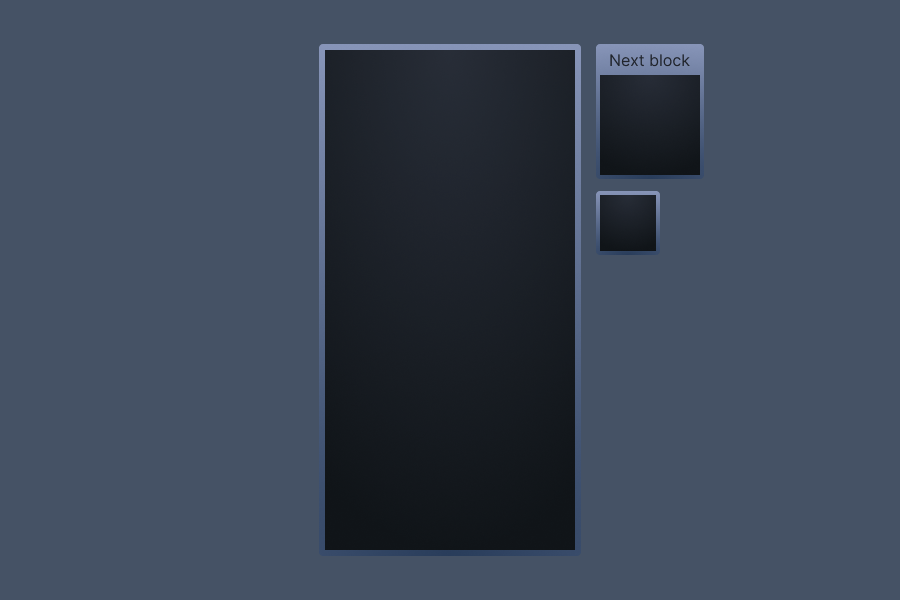
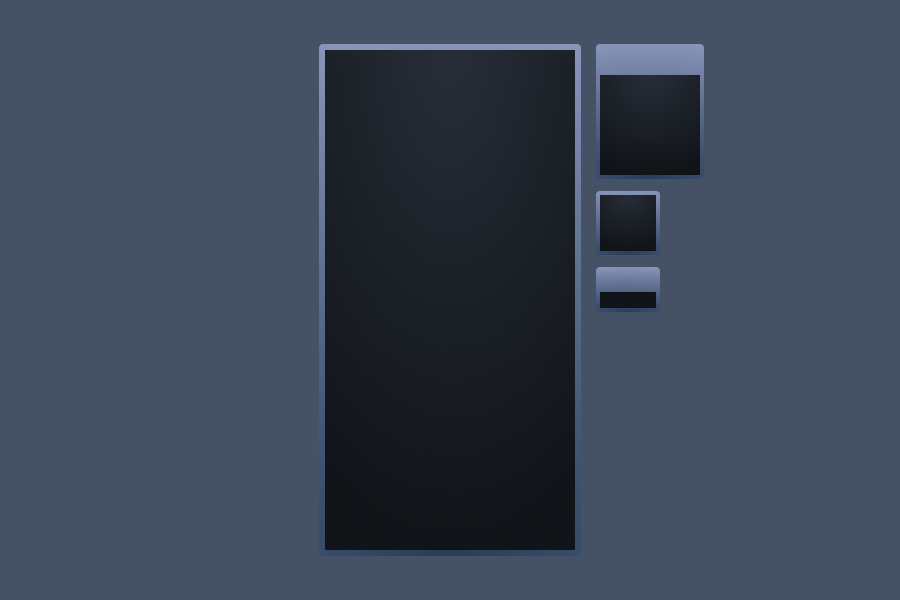
feat: render text instead of text images, add score

Changed region(s): [[0.6533, 0.42, 0.7467, 0.54], [0.6844, 0.09, 0.7778, 0.12]]

diff --git a/src/src/text.c b/src/src/text.c
@@ -1,0 +1,98 @@
+#include "text.h"
+
+#include <context.h>
+
+#include "material.h"
+#include "texture.h"
+#include "rgba.h"
+#include "shaders/textsh.h"
+
+#include <stdbool.h>
+#include <GL/gl3w.h>
+
+typedef struct TextDrawable_s {
+  GLuint VBO;
+  GLuint EBO;
+  GLuint VAO;
+} TextDrawable;
+
+const GLfloat _vertices[] = { 0, 0, 1, 0, 1, 1, 0, 1 };
+const GLuint _indices[] = { 0, 1, 2, 0, 2, 3 };
+
+static Texture _texture;
+static TextDrawable _textDrawable;
+static Material _material;
+static bool _isMeshInitialized = false;
+
+void Text_Init() {
+  if (_isMeshInitialized) return;
+
+  _texture = Texture_Load(FONT);
+  if (!_texture.IsOK) return;
+
+  _material = Material_Create("TextMaterial", textsh_vs, textsh_fs, &_texture.Ptr, 1);
+  if (!_material.IsOK) {
+    glDeleteTextures(1, &_texture.Ptr);
+    return;
+  }
+
+  glGenVertexArrays(1, &_textDrawable.VAO);
+  glBindVertexArray(_textDrawable.VAO);
+
+  glGenBuffers(1, &_textDrawable.VBO);
+  glBindBuffer(GL_ARRAY_BUFFER, _textDrawable.VBO);
+  glBufferData(GL_ARRAY_BUFFER, 4 * (2 * sizeof(GLfloat)), _vertices, GL_STATIC_DRAW);
+  glVertexAttribPointer(0, 2, GL_FLOAT, GL_FALSE, 2 * sizeof(GLfloat), (void*)0);
+  glEnableVertexAttribArray(0);
+
+  glGenBuffers(1, &_textDrawable.EBO);
+  glBindBuffer(GL_ELEMENT_ARRAY_BUFFER, _textDrawable.EBO);
+  glBufferData(GL_ELEMENT_ARRAY_BUFFER, 6 * sizeof(GLuint), _indices, GL_STATIC_DRAW);
+
+  glBindVertexArray(0);
+
+  _isMeshInitialized = true;
+}
+
+void Text_Destroy() {
+  if (!_isMeshInitialized) return;
+  _isMeshInitialized = false;
+
+  glDeleteBuffers(1, &_textDrawable.VBO);
+  _textDrawable.VBO = 0;
+
+  glDeleteBuffers(1, &_textDrawable.EBO);
+  _textDrawable.EBO = 0;
+
+  glDeleteVertexArrays(1, &_textDrawable.VAO);
+  _textDrawable.VAO = 0;
+}
+
+void Text_PutChar(const int x, const int y, const int charWidth, const int charHeight, const uint8_t character, const RGBA* color) {
+  Material_SetActive(&_material);
+  Material_BindTextures(&_material);
+
+  Material_SetVector2(&_material, "uResolution", g_Context.Size.Width, g_Context.Size.Height);
+  Material_SetVector2(&_material, "uBaseResolution", g_Context.BaseSize.Width, g_Context.BaseSize.Height);
+  Material_SetVector2(&_material, "uLocation", (float)x, (float)y);
+  Material_SetVector2(&_material, "uSize", (float)charWidth, (float)charHeight);
+  Material_SetUVector2(&_material, "uLayout", 16, 8);
+  Material_SetUint(&_material, "uIndex", character);
+
+  if (color == NULL) {
+    Material_SetVector4(&_material, "uColor", 1.0f, 1.0f, 1.0f, 1.0f);
+  } else {
+    Material_SetVector4(&_material, "uColor", color->R, color->G, color->B, color->A);
+  }
+
+  glBindVertexArray(_textDrawable.VAO);
+  glDrawElements(GL_TRIANGLES, 6, GL_UNSIGNED_INT, 0);
+}
+
+void Text_PutString(const int x, const int y, const int width, const int height, const char* text, const int textLength, const RGBA* color) {
+  const int charWidth = width / textLength;
+  const int charHeight = height;
+  for (int i = 0; i < textLength; i++) {
+    Text_PutChar(x + i * charWidth, y, charWidth, charHeight, text[i], color);
+  }
+}

diff --git a/src/src/scenes/tetris.c b/src/src/scenes/tetris.c
@@ -4,6 +4,7 @@
 #include <stdbool.h>
 #include <inttypes.h>
 #include <stdlib.h>
+#include <text.h>
 #include <time.h>
 
 #include "timing.h"
@@ -217,6 +218,12 @@ void Scenes_Tetris_OnLoad() {
 
   tetris_state.isInitialized = true;
 
+  Text_Init();
+
+  // Enable transparency
+  glEnable(GL_BLEND);
+  glBlendFunc(GL_SRC_ALPHA, GL_ONE_MINUS_SRC_ALPHA);
+
   printf("Tetris scene loaded!\n");
 }
 
@@ -306,20 +313,26 @@ void Scenes_Tetris_OnTetrisUpdate() {
   if (tetris_state.tetrisEndTime > g_Time) return;
   tetris_state.tetrisEndTime = g_Time + tetris_state.tetrisInterval;
 
+  int tetrisCount = 0;
+  for (int i = 0; i < 4; i++) {
+    if (tetris_state.disappearLinePositions[i] != -1) {
+      tetrisCount++;
+    }
+  }
+
   for (int i = 0; i < 4; i++) {
     int y = tetris_state.disappearLinePositions[i];
     if (y != -1) {
       tetris_state.field.Data[y * tetris_state.field.Size.Width + tetris_state.disappearX] = 0;
-      tetris_state.score++;
+      tetris_state.score += tetrisCount;
     }
   }
 
   tetris_state.disappearX++;
 
-  if (tetris_state.disappearX >= (int)tetris_state.field.Size.Width) {
+  if (tetris_state.disappearX >= tetris_state.field.Size.Width) {
     Field_CollectEmptyLines(&tetris_state.field);
     tetris_state.isTetris = false;
-    printf("Score: %d\n", tetris_state.score);
   }
 }
 
@@ -406,8 +419,41 @@ void Scenes_Tetris_Render() {
     }
   }
 
+  // Pause sprite render
+
   if (tetris_state.isPaused) {
     Sprite_Render(&tetris_data.pauseSprite, false);
+  }
+
+  RGBA mainColor = { 0.0f, 0.0f, 0.0f, 1.0f };
+  RGBA invertMainColor = RGBA_Invert(&mainColor);
+  RGBA secondaryColor = { 0.2f, 0.2f, 0.2f, 0.2f };
+  RGBA invertSecondaryColor = RGBA_Invert(&secondaryColor);
+
+  if (tetris_state.isLost) {
+    mainColor = RGBA_Invert(&mainColor);
+    invertMainColor = RGBA_Invert(&invertMainColor);
+    secondaryColor = RGBA_Invert(&secondaryColor);
+    invertSecondaryColor = RGBA_Invert(&invertSecondaryColor);
+  }
+
+  // Next block text render
+  const char nextBlockText[] = "Next block";
+  Text_PutString(610, 53, 80, 16, nextBlockText, sizeof(nextBlockText) - 1, &mainColor);
+
+  // Score text render
+  const char scoreText[] = "Score";
+  Text_PutString(608, 271, 40, 16, scoreText, sizeof(scoreText) - 1, &mainColor);
+
+  // Score render
+  const int w = 16 / 2;
+  const int h = 16;
+
+  int score = tetris_state.score;
+  for (int i = 5; i >= 0; i--) {
+    const uint8_t num = score % 10;
+    score /= 10;
+    Text_PutChar(604 + i * w, 292, w, h, '0' + num, &invertMainColor);
   }
 }
 
@@ -428,5 +474,8 @@ void Scenes_Tetris_OnUpdate() {
 
 void Scenes_Tetris_OnDestroy() {
   Sprite_DestroySpriteMesh();
+
+  Text_Destroy();
+
   printf("Tetris scene destroyed!\n");
 }

diff --git a/src/src/shaders/textsh.c b/src/src/shaders/textsh.c
@@ -1,0 +1,80 @@
+#include "textsh.h"
+
+const char* textsh_vs = ""
+  "#version 330 core\n"
+  "\n"
+  "precision lowp int;\n"
+  "precision lowp float;\n"
+  "\n"
+  "layout(location = 0) in vec2 iPos;\n"
+  "\n"
+  "out vec2 vTexCoord;\n"
+  "\n"
+  "uniform vec2 uResolution;\n"
+  "uniform vec2 uBaseResolution;\n"
+  "\n"
+  "uniform vec2 uLocation;\n"
+  "uniform vec2 uSize;\n"
+  "uniform uvec2 uLayout;\n"
+  "uniform uint uIndex;\n"
+  "\n"
+  "void main() {\n"
+  "  // Tex coords\n"
+  "  uint cols = uLayout.x;\n"
+  "  uint rows = uLayout.y;\n"
+  "\n"
+  "  float w = 1.0 / float(cols);\n"
+  "  float h = 1.0 / float(rows);\n"
+  "\n"
+  "  float col = float(uIndex % cols);\n"
+  "  float row = float(uIndex / cols);\n"
+  "\n"
+  "  vTexCoord = vec2(\n"
+  "    (col + iPos.x) * w,\n"
+  "    (row + iPos.y) * h\n"
+  "  );\n"
+  "\n"
+  "  // Position btw\n"
+  "  vec2 pos = iPos;\n"
+  "\n"
+  "  float aspect = uBaseResolution.x / uBaseResolution.y;\n"
+  "  vec2 size = vec2(\n"
+  "    uSize.x / uBaseResolution.x * aspect,\n"
+  "    uSize.y / uBaseResolution.y * 1\n"
+  "  );\n"
+  "\n"
+  "  pos *= size;\n"
+  "  pos += vec2(\n"
+  "    uLocation.x / uBaseResolution.x * aspect,\n"
+  "    uLocation.y / uBaseResolution.y\n"
+  "  );\n"
+  "\n"
+  "  pos.y = -pos.y;\n"
+  "\n"
+  "  pos *= 2;\n"
+  "  pos -= vec2(1.0 * aspect, -1.0);\n"
+  "\n"
+  "  pos.x /= aspect;\n"
+  "\n"
+  "  pos *= uBaseResolution / uResolution;\n"
+  "  pos *= uResolution.y / uBaseResolution.y;\n"
+  "\n"
+  "  gl_Position = vec4(pos, 0.0, 1.0);\n"
+  "}";
+
+const char* textsh_fs = ""
+  "#version 330 core\n"
+  "\n"
+  "precision lowp float;\n"
+  "precision lowp int;\n"
+  "\n"
+  "in vec2 vTexCoord;\n"
+  "\n"
+  "out vec4 oColor;\n"
+  "\n"
+  "uniform sampler2D uTexture0;\n"
+  "uniform vec4 uColor;\n"
+  "\n"
+  "void main() {\n"
+  "  oColor = texture(uTexture0, vTexCoord) * uColor;\n"
+  "}";

diff --git a/src/src/material.c b/src/src/material.c
@@ -1,7 +1,6 @@
 #include "material.h"
 
 #include <stdio.h>
-#include <assert.h>
 
 void Material_ErrPrefix(const Material* this) {
   fprintf(stderr, "Material[%s]: ", this->Name);
@@ -151,4 +150,14 @@ void Material_SetVector4(Material* this, const char* name,
 ) {
   GLint location = Material_GetParamLocation(this, name);
   if (location != -1) glUniform4f(location, value1, value2, value3, value4);
+}
+
+void Material_SetUint(Material* this, const char* name, const GLuint value1) {
+  const GLuint location = Material_GetParamLocation(this, name);
+  if (location != -1) glUniform1ui(location, value1);
+}
+
+void Material_SetUVector2(Material* this, const char* name, const GLuint value1, const GLuint value2) {
+  const GLuint location = Material_GetParamLocation(this, name);
+  if (location != -1) glUniform2ui(location, value1, value2);
 }

diff --git a/src/include/text.h b/src/include/text.h
@@ -1,0 +1,16 @@
+#ifndef __TEXT_H__
+#define __TEXT_H__
+
+#define FONT "resources/ubuntu_mono_16_512.png"
+
+#include "rgba.h"
+
+#include <inttypes.h>
+
+void Text_Init(void);
+void Text_Destroy(void);
+
+void Text_PutChar(int x, int y, int charWidth, int charHeight, uint8_t character, const RGBA* color);
+void Text_PutString(int x, int y, int width, int height, const char* text, int textLength, const RGBA* color);
+
+#endif // __TEXT_H__

diff --git a/src/include/material.h b/src/include/material.h
@@ -43,4 +43,7 @@ void Material_SetVector4(Material* this, const char* name,
   GLfloat value1, GLfloat value2, GLfloat value3, GLfloat value4
 );
 
+void Material_SetUint(Material* this, const char* name, GLuint value1);
+void Material_SetUVector2(Material* this, const char* name, GLuint value1, GLuint value2);
+
 #endif // __MATERIAL_H__

diff --git a/src/src/rgba.c b/src/src/rgba.c
@@ -1,0 +1,12 @@
+#include "rgba.h"
+
+#include <stddef.h>
+
+RGBA RGBA_Invert(const RGBA* this) {
+  return (RGBA){
+    .R = this != NULL ? 1.0f - this->R : 0.0f,
+    .G = this != NULL ? 1.0f - this->G : 0.0f,
+    .B = this != NULL ? 1.0f - this->B : 0.0f,
+    .A = this != NULL ? this->A : 1.0f,
+  };
+}

diff --git a/src/include/shaders/textsh.h b/src/include/shaders/textsh.h
@@ -1,0 +1,7 @@
+#ifndef __TEXTSH_H__
+#define __TEXTSH_H__
+
+extern const char* textsh_vs;
+extern const char* textsh_fs;
+
+#endif // __TEXTSH_H__

diff --git a/src/include/rgba.h b/src/include/rgba.h
@@ -8,4 +8,6 @@ typedef struct RGBA_s {
   float A;
 } RGBA;
 
+RGBA RGBA_Invert(const RGBA* this);
+
 #endif // __RGBA_H__
